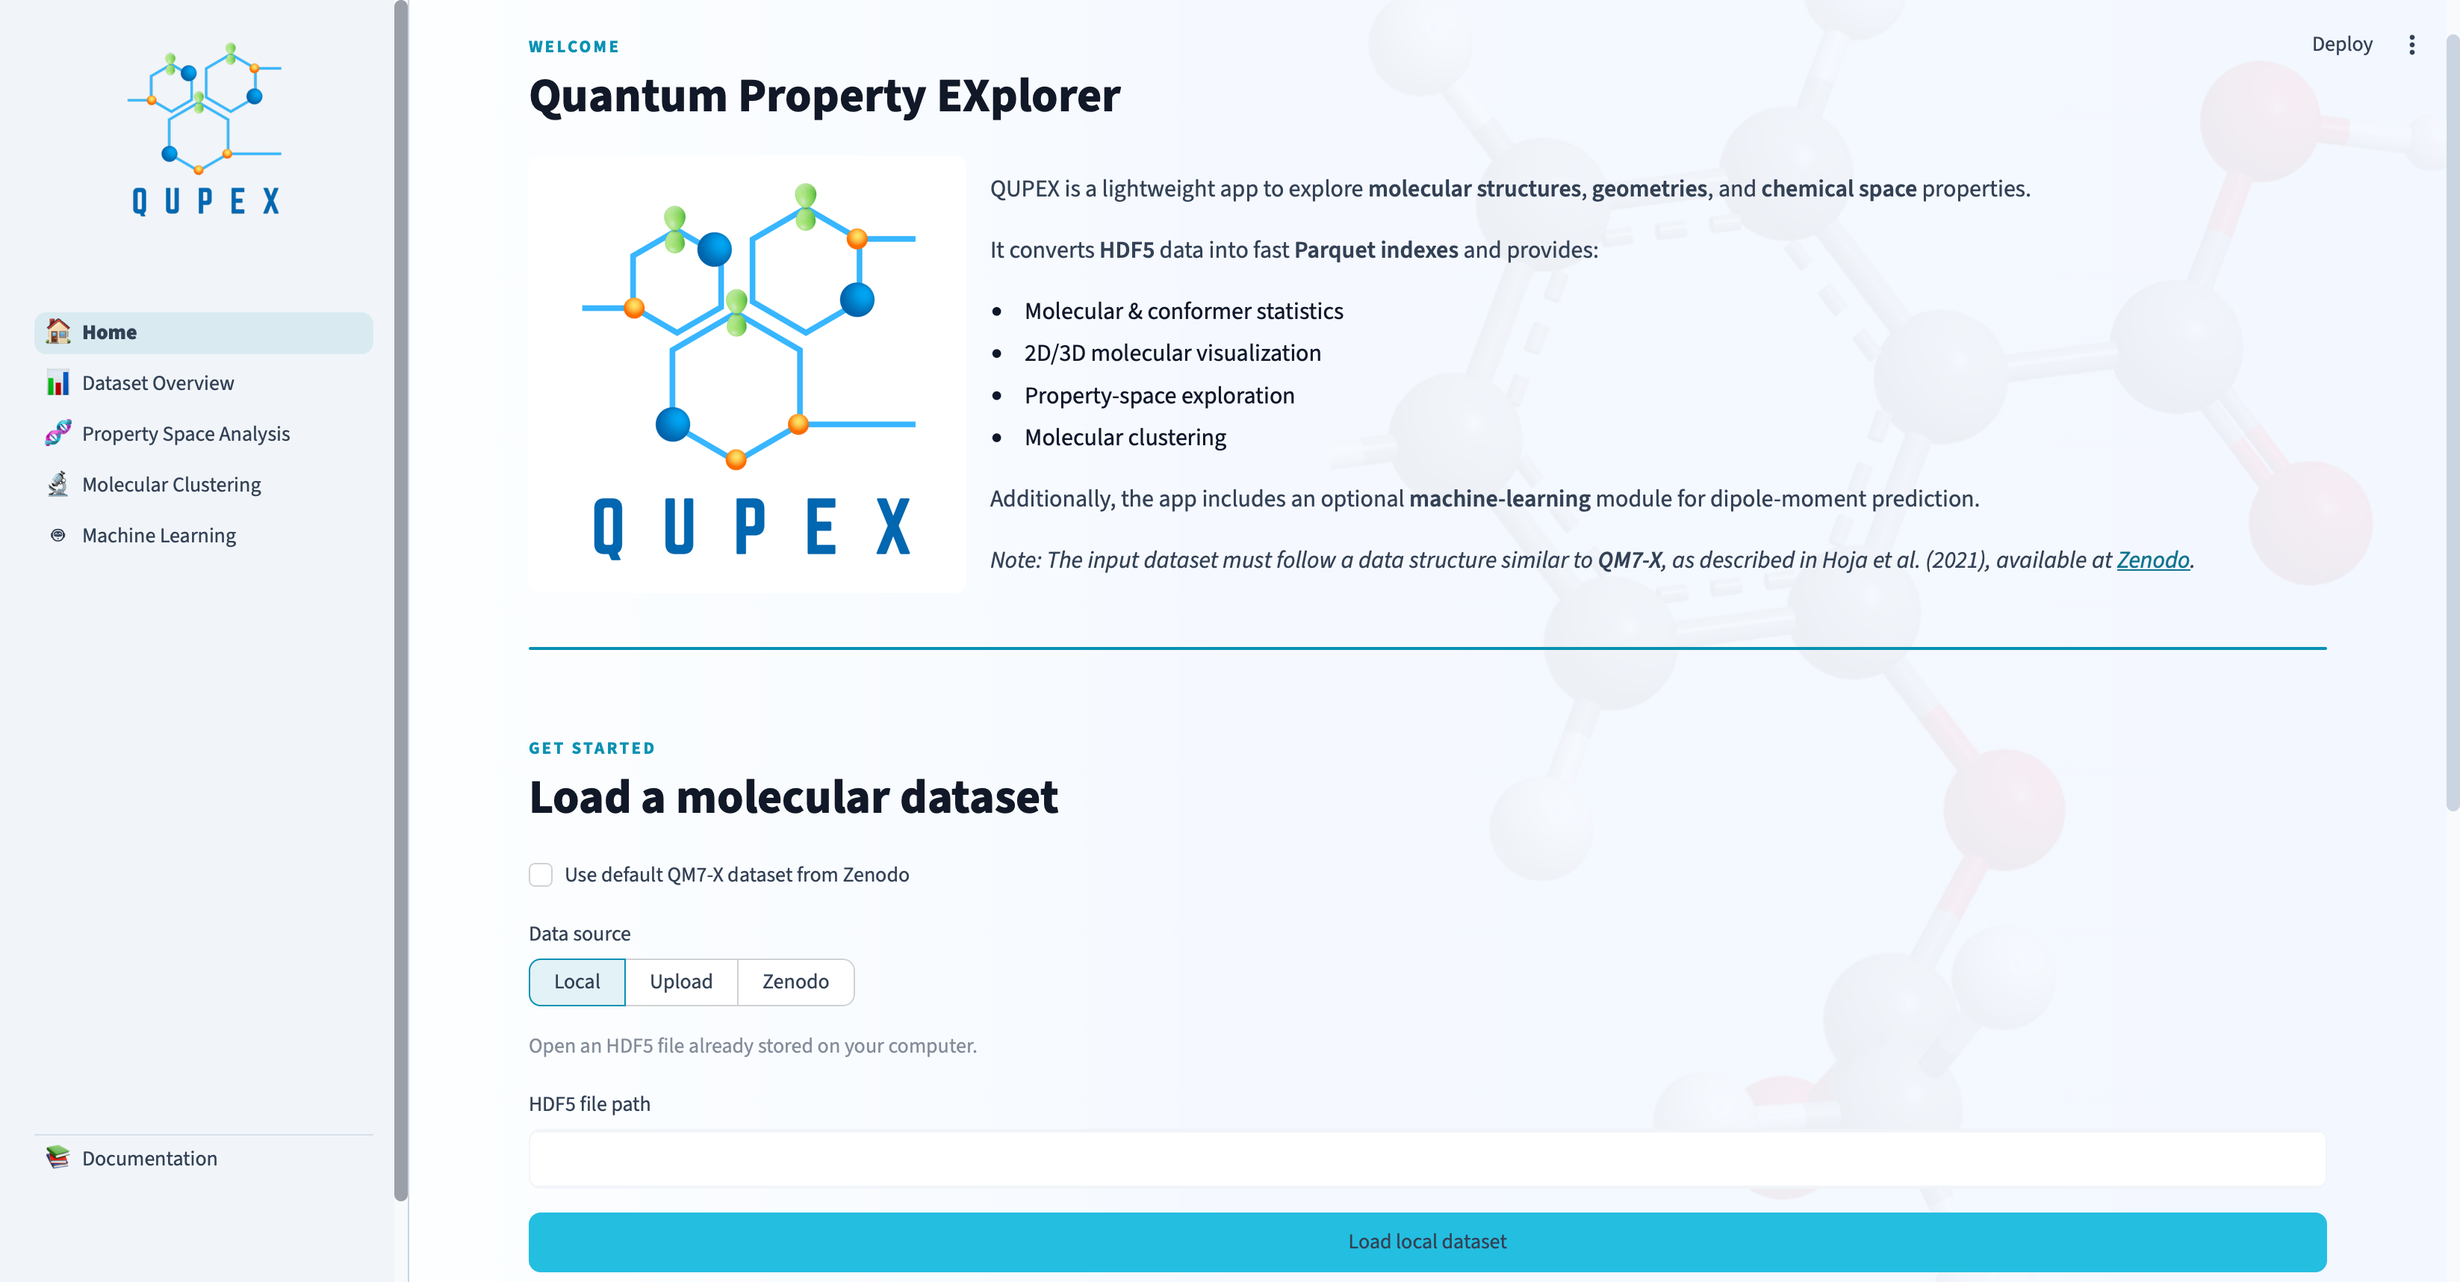
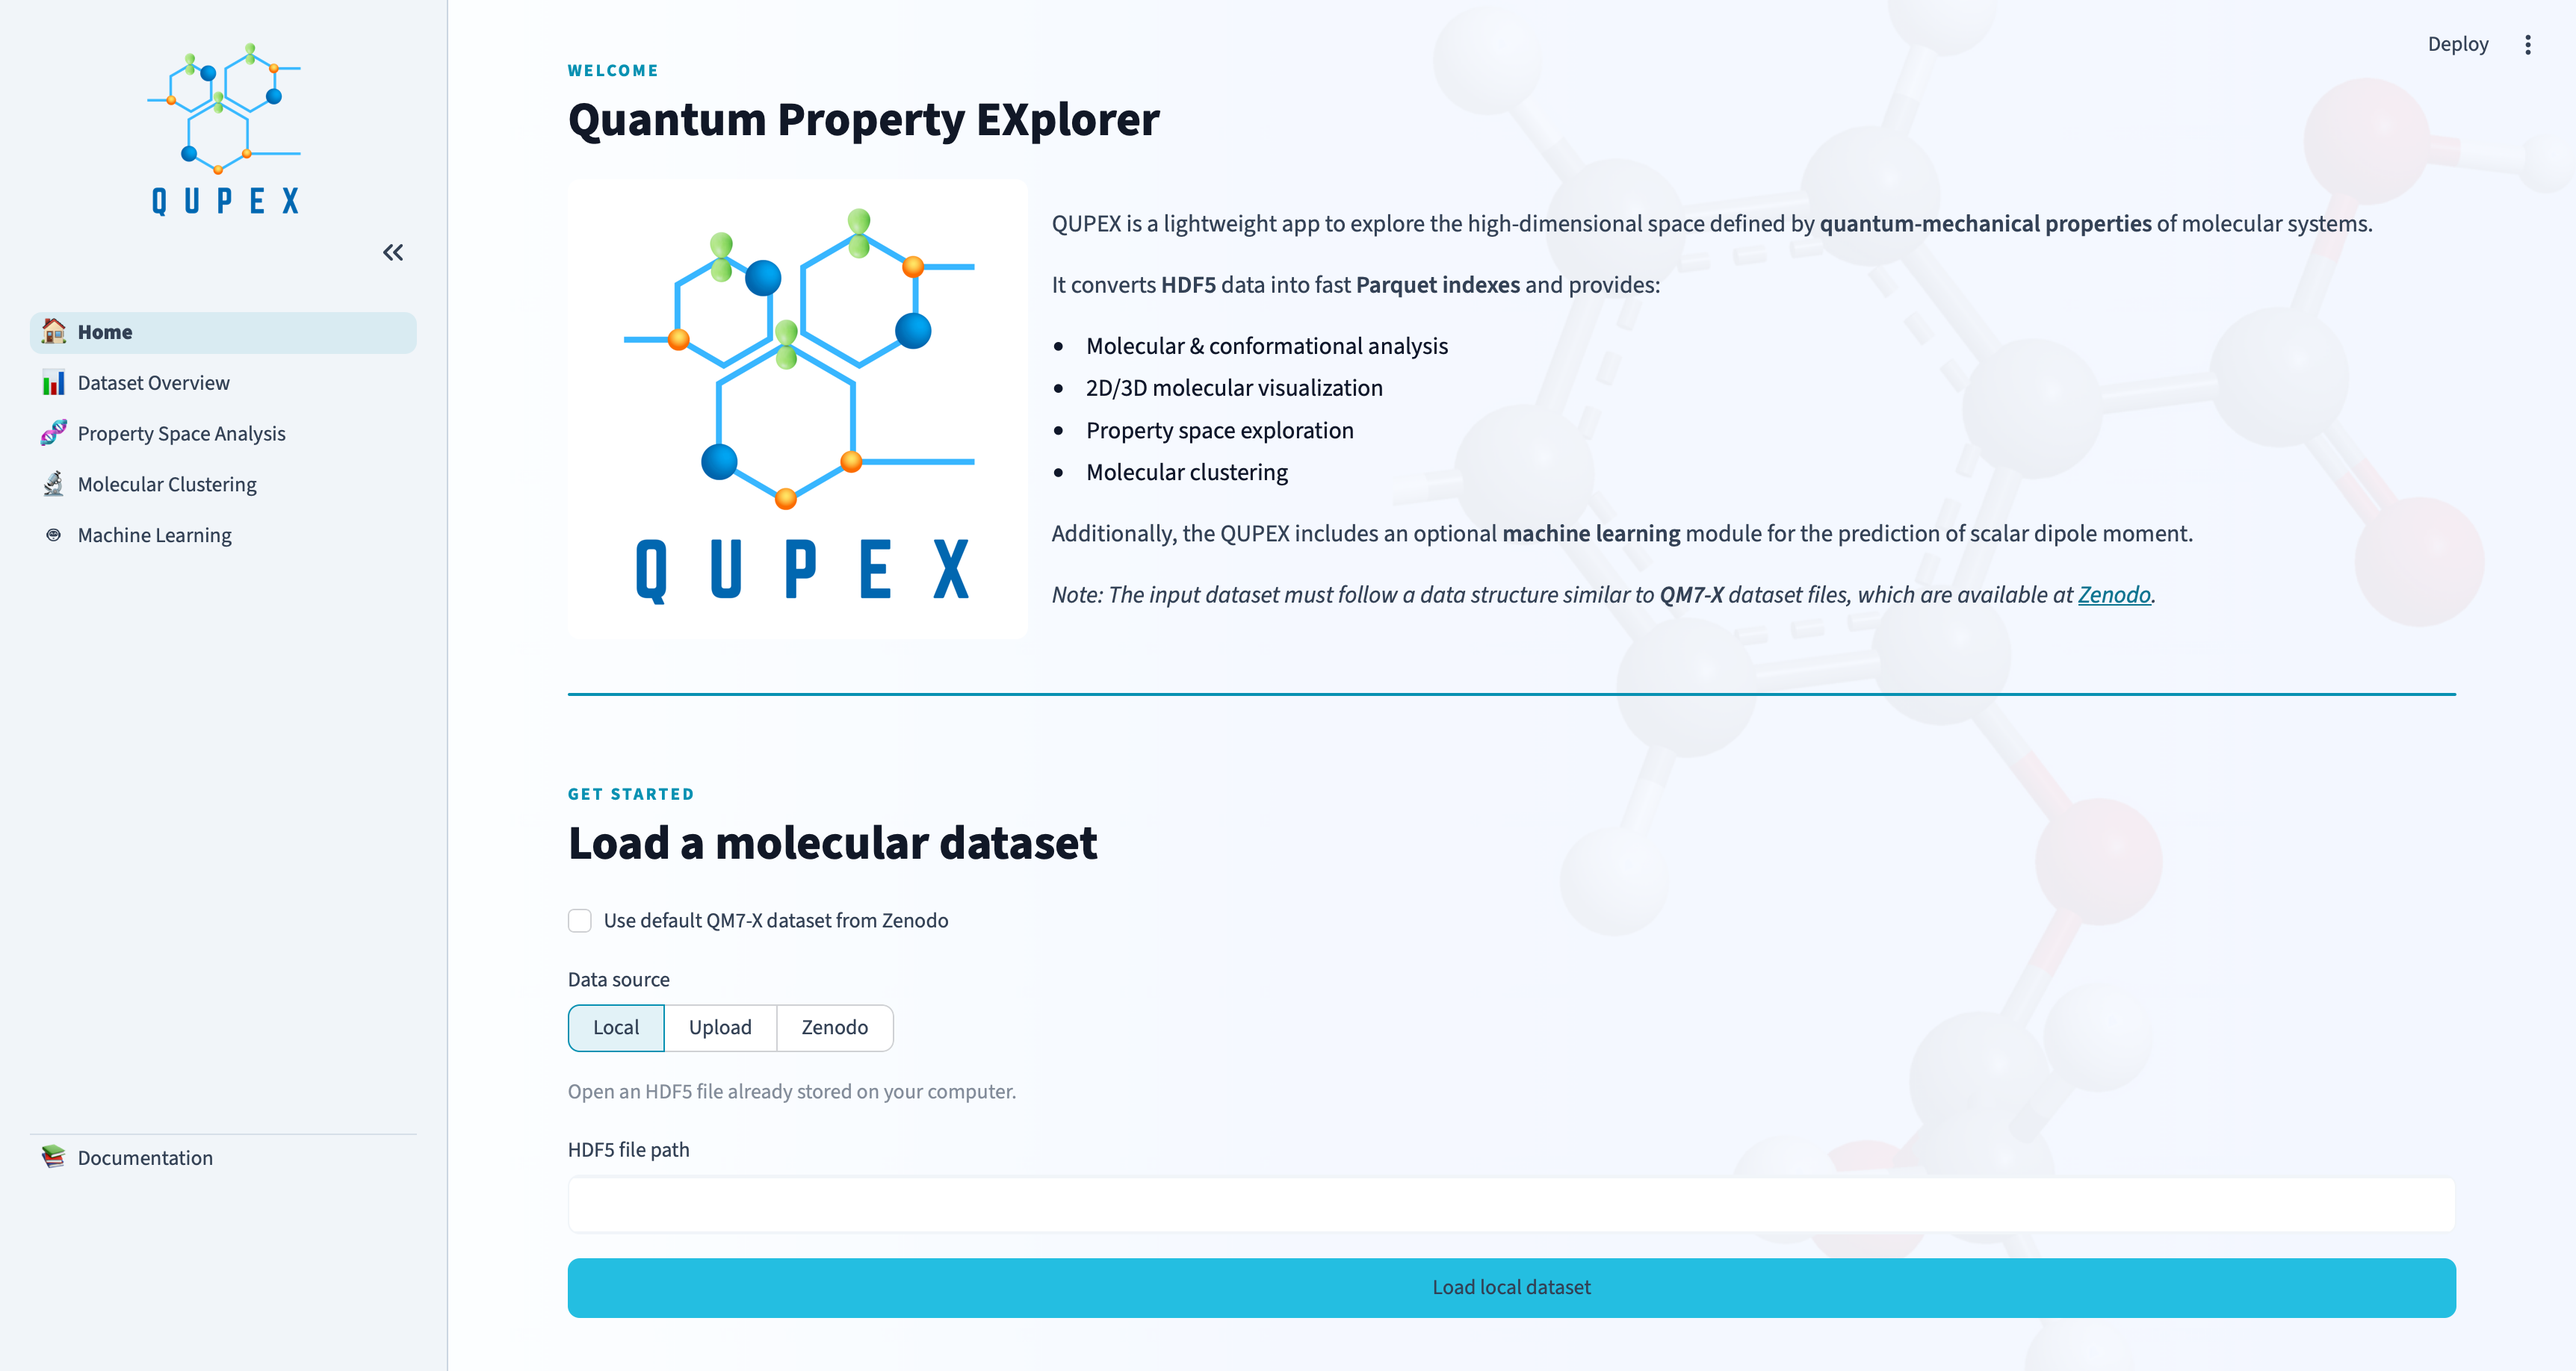
update

diff --git a/README.md b/README.md
@@ -5,7 +5,7 @@
 [![Streamlit](https://img.shields.io/badge/Streamlit-App-red)](https://streamlit.io/)
 [![Zenodo](https://img.shields.io/badge/Data-Zenodo-blue)](https://zenodo.org/)
 
-QUPEX — **QUantum Property EXplorer** — is an interactive [Streamlit](https://streamlit.io) application for the exploration, visualization, and statistical analysis of the high-dimensional space defined by the quantum-mechanical properties of molecular systems. Moreover, it provides access to a **machine learning** model for the prediction of dipole moments based on electronic descriptors. As a proof-of-concept, QUPEX has been built around the **QM7-X** dataset of small drug-like molecules. However, it can de used for investigating other molecular datasets. 
+QUPEX — **QUantum Property EXplorer** — is an interactive [Streamlit](https://streamlit.io) application for the exploration, visualization, and statistical analysis of the high-dimensional space defined by the quantum-mechanical properties of molecular systems. Moreover, it provides access to a **machine learning** model for the prediction of dipole moments based on electronic descriptors. As a proof-of-concept, QUPEX has been built around the **QM7-X** dataset of small drug-like molecules. However, it can be used for investigating other molecular datasets. 
 
 QUPEX converts QM7-X HDF5 dataset files into lightweight, cached Parquet indexes and provides four analysis pages covering dataset composition and conformational analysis, 2D/3D molecular visualization, property correlations evaluation, PCA/t-SNE property analysis with Gaussian-Mixture clustering, and dipole moment prediction using a pretrained XGBoost model with SHAP-based interpretability.
 
@@ -14,8 +14,8 @@ QUPEX converts QM7-X HDF5 dataset files into lightweight, cached Parquet indexes
 - [Features](#features)
 - [Screenshot](#screenshot)
 - [Installation](#installation)
-- [Running the app](#running-the-app)
-- [Testing the machine-learning prediction functionality](#testing-the-machine-learning-prediction-functionality)
+- [Running app](#running-app)
+- [Testing ML prediction functionality](#testing-ml-prediction-functionality)
 - [Data sources](#data-sources)
 - [Caching](#caching)
 - [Project structure](#project-structure)
@@ -104,7 +104,7 @@ then continue from step 4.
    **Note for macOS users:** The application automatically handles a potential OpenMP compatibility issue that can occur when multiple versions of `libomp.dylib` are loaded by Conda, `scikit-learn`, and `xgboost`. No additional action is required from the user.
 
    
-## Running the app
+## Running app
 
 7. Start the application from the repository root, with the Conda environment activated:
 
@@ -154,7 +154,7 @@ If a download fails, for example because there is no network connection, the aff
 
      Then open the URL displayed by Streamlit in your browser.
 
-## Testing the machine-learning prediction functionality
+## Testing ML prediction functionality
 
 A ready-to-use sample file, [`test_dftb_dipole_dataset.csv`](test_dftb_dipole_dataset.csv), is included in the repository root so the dipole-moment prediction workflow can be tried out without preparing your own descriptor data.
 
